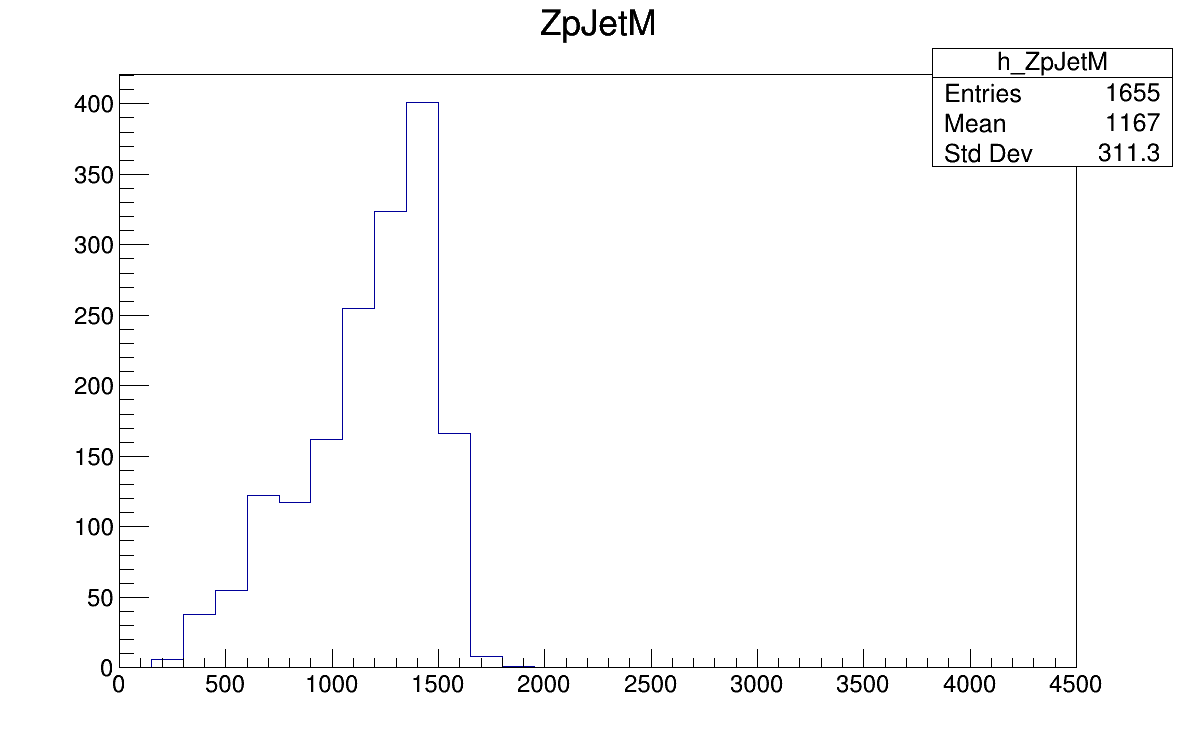
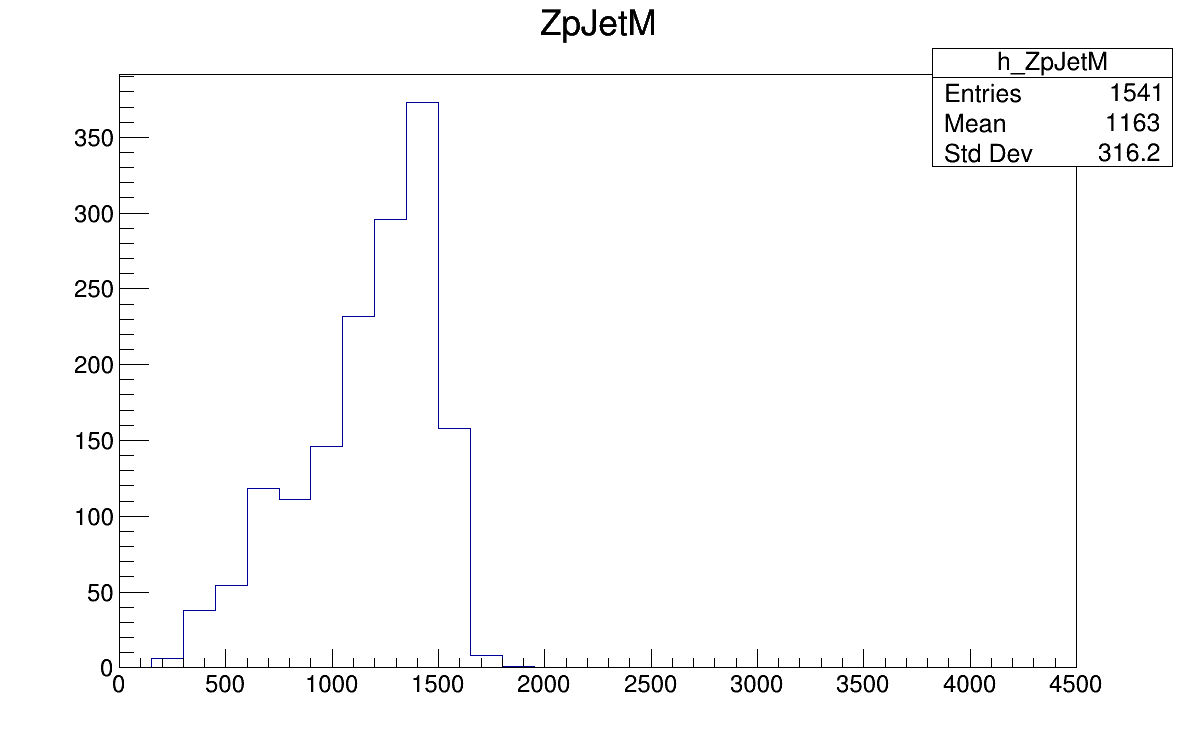
forget to use |eta|

diff --git a/boosted_xAna_BZ.C b/boosted_xAna_BZ.C
@@ -165,8 +165,8 @@ void boosted_xAna_BZ(std::string inputFile){
         for (int ij=0;ij<30;ij++) {
             if (genParSt[ij] != 23) continue;
             TLorentzVector *thisJet = (TLorentzVector*)genParP4->At(ij);
-            //if (thisJet->Pt() < 300) continue;
-            if (thisJet->Eta() > 2.4) continue;
+            //if (abs(thisJet->Pt()) < 300) continue;
+            if (abs(thisJet->Eta()) > 2.4) continue;
             if (genMomParId[ij]==9000001) {
                 nZpDa += 1;
                 if (zpIndex[0] < 0) zpIndex[0] = ij;
